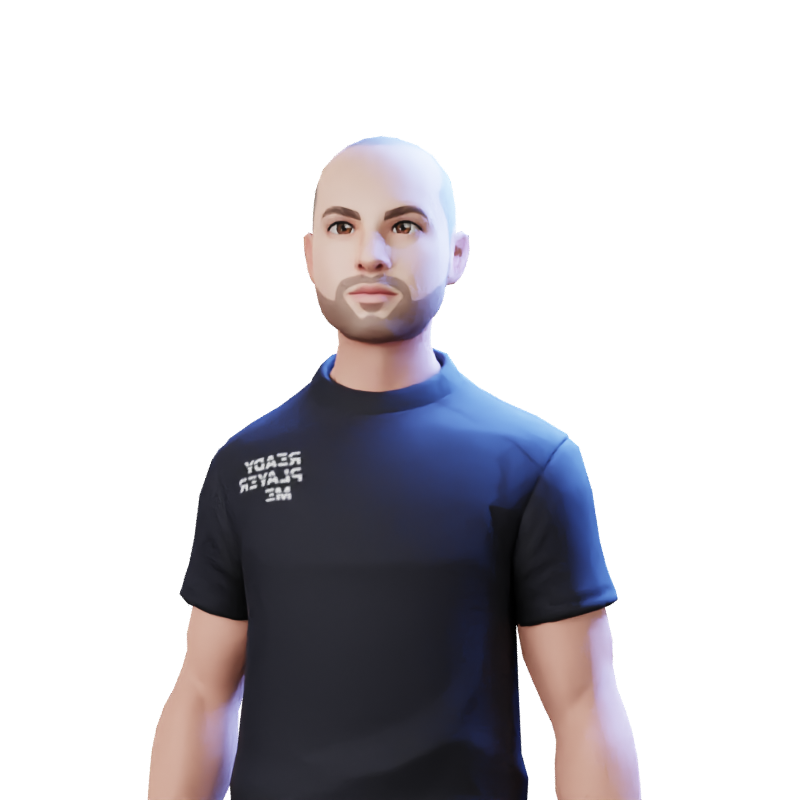
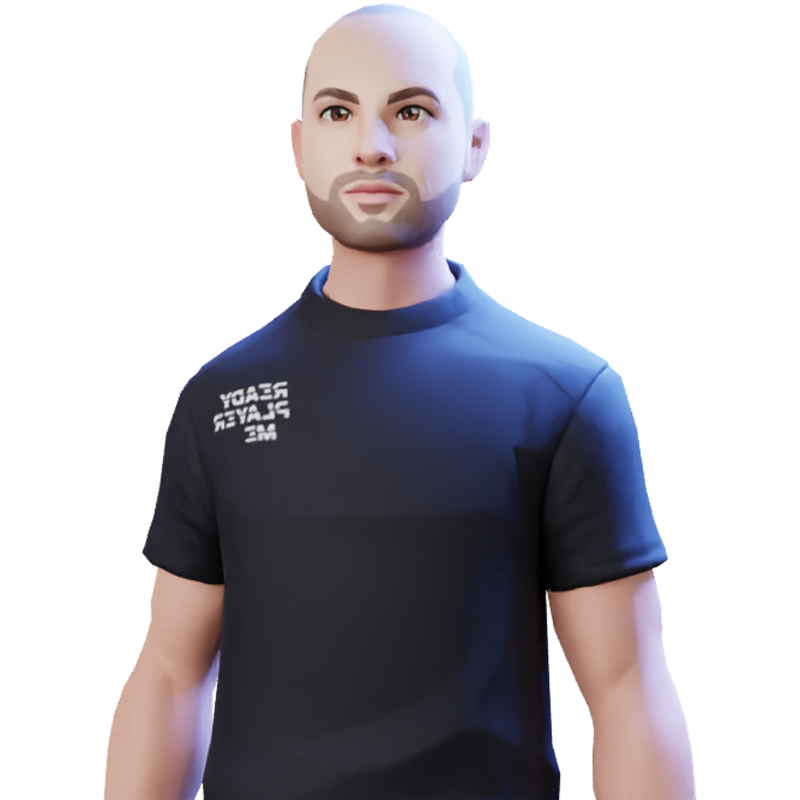
primera seccion

Changed region(s): [[0.125, 0.0, 0.875, 1.0]]

diff --git a/index.html b/index.html
@@ -5,6 +5,9 @@
     <meta http-equiv="X-UA-Compatible" content="IE=edge">
     <meta name="viewport" content="width=device-width, initial-scale=1.0">
     <title>Fernando Martini</title>
+    <link rel="preconnect" href="https://fonts.googleapis.com">
+    <link rel="preconnect" href="https://fonts.gstatic.com" crossorigin>
+    <link href="https://fonts.googleapis.com/css2?family=Rajdhani:wght@500&family=Sono:wght@200&display=swap" rel="stylesheet">
     <link rel="stylesheet" href="./css/style.css">
 </head>
 <body>
@@ -24,8 +27,8 @@
                     <p>desarrollador web.</p>
                 </div>
             </div>
-            <div class="avatar">
-                <div class="avatar__img">
+            <div class="principal__avatar">
+                <div class="principal__img">
                     <img src="./img/fernando.png" alt="Avatar de fernando martini">
                 </div>
             </div>

diff --git a/css/style.css b/css/style.css
@@ -1,10 +1,38 @@
+@charset "UTF-8";
+/*COLORES*/
+/*TAMAÑOS DE TIPOGRAFIA*/
+/* ESPACIADO*/
+/*TIPOGRAFIAS*/
 * {
   padding: 0;
   margin: 0;
   text-decoration: none; }
 
 .principal {
+  height: 100vh;
+  padding-inline: 5rem;
   background: #2b2d42;
   background: linear-gradient(90deg, #2b2d42 39%, #4e2c70 100%);
   display: grid;
   grid-template-columns: 1fr 1fr; }
+  .principal__saludo {
+    display: flex;
+    flex-direction: column;
+    justify-content: center; }
+  .principal__hola {
+    font-size: 2.5rem;
+    color: #5591F5;
+    font-family: "Sono", sans-serif; }
+  .principal__nombre {
+    font-size: 5rem;
+    color: #5591F5;
+    font-family: "Rajdhani", sans-serif; }
+  .principal__parrafo {
+    font-size: 2 rem;
+    color: #5591F5;
+    font-family: "Sono", sans-serif; }
+  .principal__avatar {
+    display: flex;
+    align-items: end; }
+  .principal__img img {
+    height: 85vh; }

diff --git a/sass/partes/_principal.scss b/sass/partes/_principal.scss
@@ -1,7 +1,37 @@
 .principal{
+    height: 100vh;
+    padding-inline: $xxl;
     background: rgb(43,45,66);
     background: linear-gradient(90deg, rgba(43,45,66,1) 39%, rgba(78,44,112,1) 100%);
     display: grid;
     grid-template-columns: 1fr 1fr; 
-
+    &__saludo {
+        display: flex;
+        flex-direction: column;
+        justify-content: center;
+    }
+    &__hola{
+        font-size: $titulo2;
+        color: $color5;
+        font-family: $tipografia2;
+    }
+    &__nombre{
+        font-size: $titulo;
+        color: $color5;
+        font-family: $tipografia1;
+    }
+    &__parrafo{
+        font-size: $subtitulo;
+        color: $color5;
+        font-family: $tipografia2;
+    }
+    &__avatar{
+        display: flex;
+        align-items: end;
+    }
+    &__img{
+        img{
+        height: 85vh;
+        }
+    }
 }

diff --git a/sass/partes/variables.scss b/sass/partes/variables.scss
@@ -1,0 +1,28 @@
+/*COLORES*/
+
+$color1: #2B2D42;
+$color2: #702B9E;
+$color3: #B429F9;
+$color4: #855DF7;
+$color5: #5591F5;
+$color6: #3EABF4;
+
+/*TAMAÑOS DE TIPOGRAFIA*/
+
+$titulo: 5rem;
+$titulo2: 2.5rem;
+$parrafo: 0.8rem;
+$subtitulo: 2 rem;
+
+/* ESPACIADO*/
+
+$xxl: 5rem;
+$xl: 3rem;
+$l: 2rem;
+$m: 1rem;
+$s: 0.5rem;
+
+/*TIPOGRAFIAS*/
+
+$tipografia1: 'Rajdhani', sans-serif;
+$tipografia2: 'Sono', sans-serif;

diff --git a/sass/main.scss b/sass/main.scss
@@ -1,3 +1,5 @@
+@import "./partes/variables.scss";
+
 @import "./partes/generales";
 
 @import "./partes/principal";
